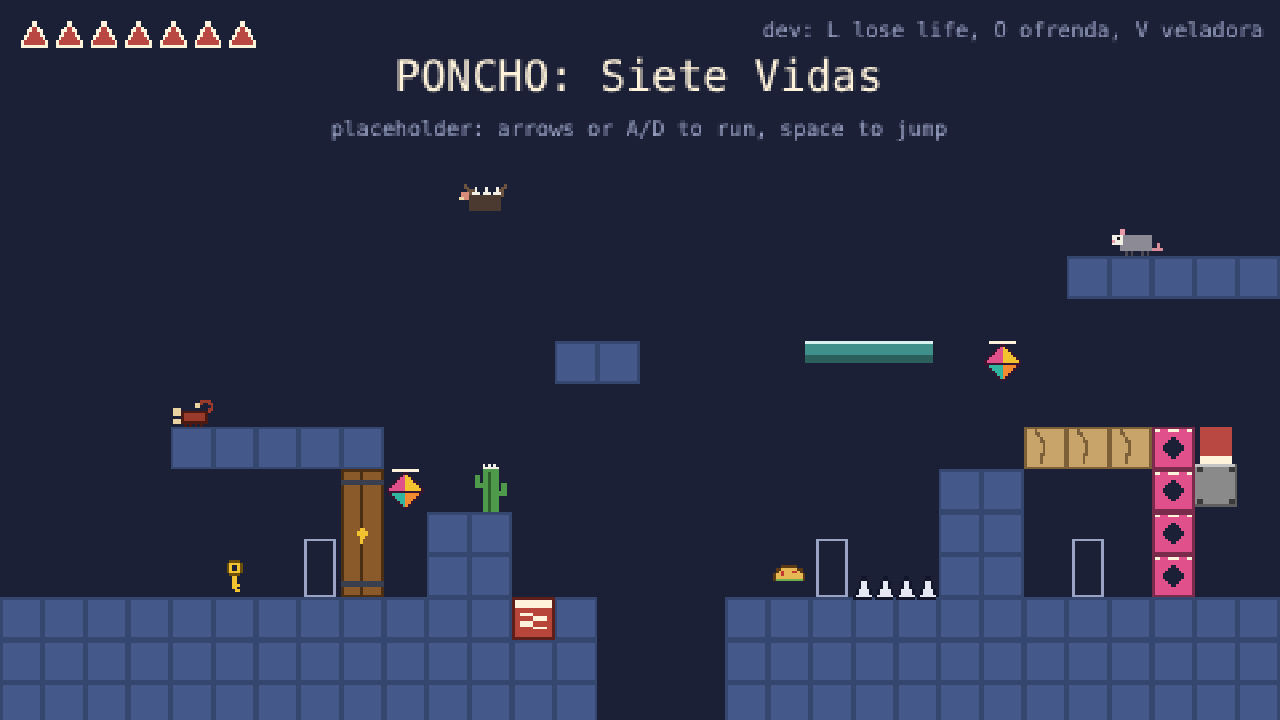
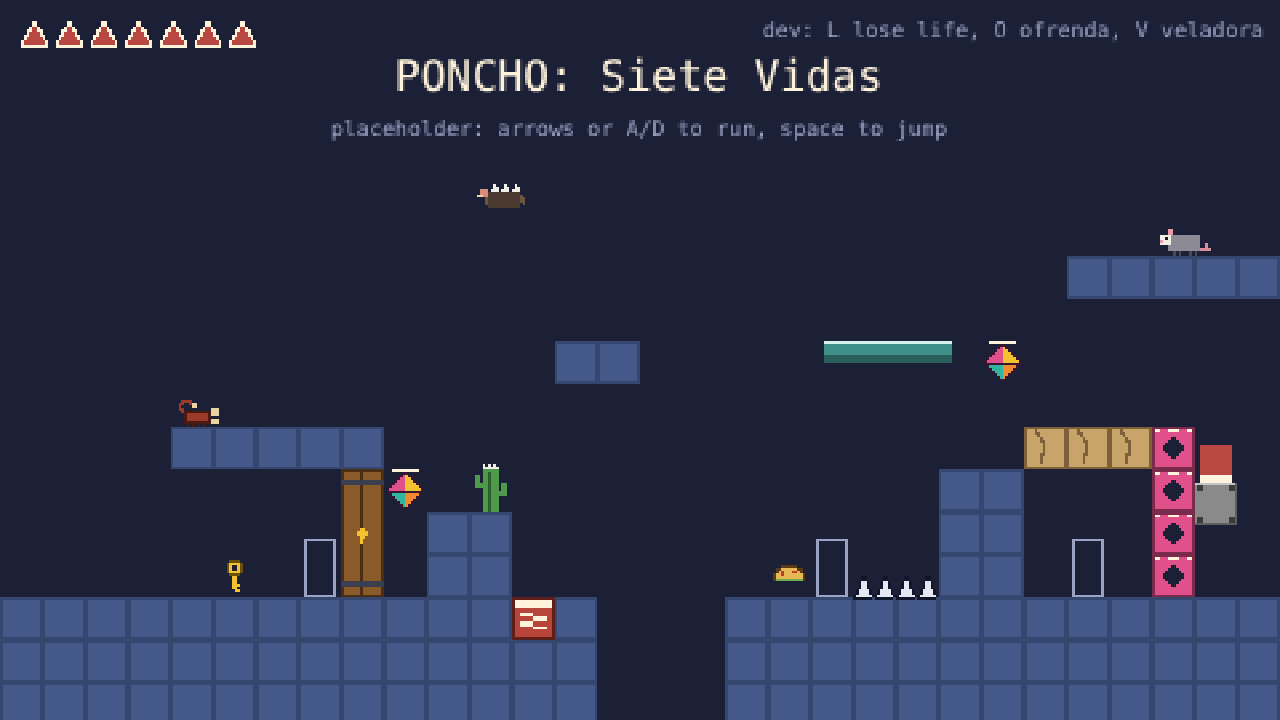
fix(GDD-WLD-05): block carry-down never pushes into a tile; review tests
A downward carry now leaves Poncho on a tile he hangs over, as a platform
does (GDD 0.4.38). New tests pin the upward push, the push axis of a
diagonal block and the stopped run speed at a block's side. The screenshot
scenario steps the block to its exact ends. L-025 recurrence 3.

Claude-Session: https://claude.ai/code/session_01HGGofJfGU4c1YuuvRnn3Kz

diff --git a/src/sim/block.test.ts b/src/sim/block.test.ts
@@ -110,6 +110,8 @@ describe('GDD-WLD-05 moving block is solid on every side', () => {
     const fromLeft = play(wall, runAt(wall, standing(60, 192)), 80, () => ({ move: 1, jumpHeld: false }));
     for (const s of fromLeft) expect(s.player.x).toBeLessThanOrEqual(100 - HALF + 1e-6);
     expect(fromLeft[79]!.player.x).toBeCloseTo(100 - HALF, 6);
+    // Stopped as at a tile wall: his run speed is gone, so when he clears it he speeds up from rest.
+    expect(fromLeft[79]!.player.vx).toBe(0);
     const fromRight = play(wall, runAt(wall, standing(180, 192)), 120, () => ({ move: -1, jumpHeld: false }));
     for (const s of fromRight) expect(s.player.x).toBeGreaterThanOrEqual(132 + HALF - 1e-6);
     expect(fromRight[119]!.player.x).toBeCloseTo(132 + HALF, 6);
@@ -118,8 +120,9 @@ describe('GDD-WLD-05 moving block is solid on every side', () => {
   it('pushes Poncho along when it moves sideways into him, with no life lost', () => {
     const level = levelOf([{ x0: 40, y0: 160, x1: 136, y1: 160, w: 16, h: 32 }]);
     // The step in which its face first passes his left edge (x = 94): it moves him to the face.
-    const first = moveBlocks(standing(100, 192), level.blocks!, 57, level.world);
+    const first = moveBlocks({ ...standing(100, 192), vx: -50 }, level.blocks!, 57, level.world);
     expect(first.crushed).toBe(false);
+    expect(first.player.vx).toBe(0);
     expect(first.player.x - HALF).toBeCloseTo(blockAt(level.blocks![0]!, 58).x + 16, 6);
     const states = play(level, runAt(level, standing(100, 192)), 120);
     const last = states[119]!;
@@ -289,6 +292,39 @@ describe('GDD-LIFE-02 crushing', () => {
     expect(back.phase).toBe('playing');
     expect(back.platformTick).toBe(0);
     expect(blockAt(dropper, back.platformTick)).toMatchObject({ x: dropper.x0, y: dropper.y0 });
+  });
+
+  it('a rising block that meets him from below lifts him onto its top', () => {
+    const level = levelOf([{ x0: 100, y0: 176, x1: 100, y1: 80, w: 32, h: 16 }]);
+    // His feet (y = 175.8) are below where its top will be after one step (y = 175.33): it lifts him and he stands on it.
+    const [after] = play(level, runAt(level, { ...airborne(116, 175.8), vy: -5 }), 1);
+    expect(after!.player.y).toBeCloseTo(176 - 40 / 60, 6);
+    expect(after!.player.x).toBe(116);
+    expect(after!.player.grounded).toBe(true);
+    // He stands on it at once, so a jump pressed the step it lifts him jumps that same step.
+    const [jumped] = play(level, runAt(level, { ...airborne(116, 175.8), vy: -5 }), 1, () => ({ move: 0, jumpHeld: true }));
+    expect(jumped!.player.vy).toBeLessThan(0);
+    expect(jumped!.player.y).toBeLessThan(176 - 40 / 60);
+  });
+
+  it('a block moving on both axes pushes him along the axis with the smaller overlap', () => {
+    // It travels 96 px right and only 8 px down, so it meets Poncho on the floor side on and pushes him right, not down into the floor.
+    const level = levelOf([{ x0: 60, y0: 170, x1: 156, y1: 178, w: 16, h: 16 }]);
+    const states = play(level, runAt(level, standing(100, 192)), 150);
+    expect(states.every((s) => s.lives.lives === 7 && s.phase === 'playing')).toBe(true);
+    expect(states[149]!.player.x).toBeGreaterThan(100);
+  });
+
+  it('carried down past a tile he hangs over, he stays on the tile and the block slides on down', () => {
+    // A tile at column 1, row 10 (x 16 to 32, top y = 160) beside the block's path (x 32 to 48). Poncho stands with 11 of his 12 px over it.
+    const world = worldOf((r) => (r === 10 ? '.#' + '.'.repeat(18) : '.'.repeat(20)));
+    const level = levelOf([{ x0: 32, y0: 128, x1: 32, y1: 176, w: 16, h: 16 }], world);
+    // After 33 steps the block's top is at y = 150, going down.
+    const states = play(level, runAt(level, standing(27, 150), { platformTick: 33 }), 40);
+    for (const s of states) expect(s.player.x).toBe(27);
+    expect(states[39]!.player.y).toBe(160);
+    expect(states[39]!.player.grounded).toBe(true);
+    expect(states[39]!.lives.lives).toBe(7);
   });
 
   it('a push that has room is not a crush: no life lost', () => {

diff --git a/src/sim/block.ts b/src/sim/block.ts
@@ -52,9 +52,11 @@ export function moveBlocks(player: PlayerState, blocks: readonly MovingBlock[], 
     const dy = to.y - from.y;
     if (p.grounded && Math.abs(p.y - from.y) < EPS && overlapsX(p, from)) {
       const x = blocked(solid, p.x + dx, p.y) ? p.x : p.x + dx;
-      // Carried down he moves away from any ceiling, so only carrying him up can crush him.
-      if (dy < 0 && blocked(solid, x, p.y + dy)) return { player, crushed: true };
-      p = { ...p, x, y: p.y + dy };
+      // Carried up into a tile he is crushed. Carried down into one (he hangs over a tile beside the block) he stays on it
+      // and the block slides on down away from him, as a platform never pushes him through a tile.
+      const into = blocked(solid, x, p.y + dy);
+      if (into && dy < 0) return { player, crushed: true };
+      p = { ...p, x, y: into ? p.y : p.y + dy };
       continue;
     }
     if (!overlaps(p, to)) continue;

diff --git a/e2e/shots/block.spec.ts b/e2e/shots/block.spec.ts
@@ -14,10 +14,11 @@ test('GDD-WLD-05 moving block: at the top, on the floor, and carrying Poncho up'
     const g = window.__PONCHO__!;
     g.pause(true);
     g.teleport(472, 224); // column 29, the safe spot beside the block's path
-    g.step(1);
+    // Some steps ran before the pause: step on until the block is back at its top end (y = 112), exactly.
+    for (let i = 0; i < 300 && g.blocks()[0]!.y !== 112; i++) g.step(1);
   });
   await shot(page, info, 'block-top');
-  await page.evaluate(() => window.__PONCHO__!.step(143)); // the block rests on the floor
+  await page.evaluate(() => window.__PONCHO__!.step(144)); // 96 px at 40 px/s: the block rests on the floor (y = 208)
   await shot(page, info, 'block-floor');
   await page.evaluate(() => {
     const g = window.__PONCHO__!;

diff --git a/docs/GDD.md b/docs/GDD.md
@@ -1,6 +1,6 @@
 # PONCHO: Siete Vidas — Game Design Document
 
-Version: 0.4.37
+Version: 0.4.38
 
 This document is the anchor for every feature. Rules:
 
@@ -12,6 +12,7 @@ This document is the anchor for every feature. Rules:
 
 ## Changelog
 
+- **0.4.38** (2026-10-23) GDD-WLD-05: a moving block carrying Poncho down past a tile he hangs over leaves him standing on the tile, as a platform does (found in review).
 - **0.4.37** (2026-10-23) GDD-WLD-05, GDD-LIFE-02, GDD-CMB-03: moving blocks and crushing are built. A moving block is solid on every side and travels like a moving platform at 40 px/s; a push or a carry into a solid tile crushes Poncho, which costs one life like a pit, in any power-up state and even while invulnerable. The sandbox has one in the pocket past the fragile wall (user decisions, 2026-10-23: a moving solid block is what crushes, a crush costs a life like a pit).
 - **0.4.36** (2026-10-23) GDD-MOV-08, GDD-WLD-05, GDD-PRG-01, GDD-MVP-02: the wall cling and kick is built ahead of the MVP, behind the same ability flag as the glide (on in the sandbox, where the level's left and right edges are full-height walls): pressing toward a wall while falling slides at 60 px/s; jump beside a wall in the air kicks away at 130 px/s across and 380 px/s up, then sideways control is locked for 120 ms (user decisions, 2026-10-23: a kick whenever he touches a wall in the air, the cling wins over the glide, a 0.1 s grace after leaving the wall, claw marks as the placeholder look; and a spring launch wins over a wall kick, GDD-WLD-05).
 - **0.4.35** (2026-10-22) GDD-MOV-07, GDD-PRG-01, GDD-MVP-02: the glide is built ahead of the MVP, behind an ability flag a level turns on (the sandbox does, until World 2 can unlock it): holding jump while falling caps the fall at 70 px/s, sideways movement unchanged, as long as jump is held; not within 150 ms of a stomp bounce; a placeholder spread poncho is drawn (user decisions, 2026-10-22: unlock flag on in the sandbox, jump held as he falls, a wide poncho bar). New proposal: a glide starts only once jump has been held longer than the 0.1 s jump buffer (GDD-MOV-03), so a press just before landing stays a buffered jump. The hold counts from a press the game saw, so a jump pressed while paused or held through a respawn does not glide (GDD-UI-02). GDD-UI-02, GDD-CTL-01: Escape and P now pause on every keyboard layout and every quick press counts once (they are read from the browser's own key events by the key's label).
@@ -461,7 +462,7 @@ Core set: spikes (cactus, obsidian), pits, crumbling platforms (0.5 s warning), 
 - **Crumbling tiles (built, details Proposed):** one-tile ledges that are solid like a floor. A tile starts to crumble when Poncho lands on it: his body box over its column and his feet on its top. A jump up from below, or walking into its side, does nothing. The warning lasts 0.5 s (30 steps) from the step he lands, shown by the tile shaking sideways and flashing pale in turn (movement and colour, GDD-UI-03). Then it is gone: Poncho falls, with the usual 0.1 s of coyote time to still jump (GDD-MOV-03). The countdown cannot be stopped: if he walks off, the tile still goes. Each tile has its own timer, so standing on the join of two starts both. A gone tile stays gone until Poncho loses a life, and then every tile is whole again when he respawns (GDD-LIFE-02). The sandbox level has three at tile columns 24 to 26, a jump up from the 3-tile wall. Sand-coloured placeholder art with a crack. `CRUMBLE` in `src/config/tuning.ts`, `src/sim/crumble.ts`.
 - **Springs (built, details Proposed):** a one-tile block, solid like a floor and set flush into it. Standing on its top, by landing on it or by walking onto it, throws Poncho up the same step. The plain launch is 480 px/s, about 77 px up, clearly above a jump (410 px/s, 56 px). A **timed press** gives a higher one: if Poncho pressed jump in the 0.1 s (6 steps) before he lands, counting the landing step itself, the launch is 600 px/s, about 120 px (the user's rule, 2026-10-21: a timed press only, holding jump does not count; the 600 is a proposal). Walking onto the spring, or holding jump from earlier, gives the plain launch. Either launch is fixed once it starts: releasing jump does not cut it short, and a jump pressed in the next steps does not replace it with the weaker 410 px/s jump, nor, beside a wall, with a wall kick (GDD-MOV-08). Touching the spring from the side or below does nothing. Red-and-cream placeholder art with a coil. The sandbox level has one in the floor between the 2-tile wall and the pit, clear of the touch buttons, and a ledge 96 px above the floor that only the timed launch reaches. `SPRING` in `src/config/tuning.ts`, `src/sim/spring.ts`.
 - **Moving platforms (built, details Proposed):** a slab 8 px thick and any whole number of tiles wide that travels in a straight line between two ends and back, at 40 px/s, turning round at each end without stopping. Where it is depends only on how many steps have passed, so it is identical on every run. It is a **one-way floor**: Poncho lands on its top when he comes down onto it, and while he stands on it he is carried with it (sideways and up and down). He passes through it from below, so he can jump up through it and land on top, and its sides and underside never block him, so it cannot crush him (only a moving block can, below). If it would carry him into a wall or a ceiling he stays against that tile and the platform slides on under his feet: it never pushes him through a tile. Jumping from it works at once; walking off an end drops him. Platforms stand still during the 0.8 s respawn wait and start from their first end again when Poncho respawns (GDD-LIFE-02). The sandbox level has one, 3 tiles wide at the height of the spring ledge, starting against the ledge's right edge and travelling 96 px right, towards the crumbling tiles; from its right end a jump reaches the Tlacuache's ledge in the top right corner, 32 px higher (GDD-ENM-02). Teal placeholder art. `PLATFORM` in `src/config/tuning.ts`, `src/sim/platform.ts`.
-- **Moving blocks (built, details Proposed; user, 2026-10-23: a solid block that moves like the platforms and crushes):** a solid block any whole number of tiles wide and tall that travels in a straight line between two ends and back at 40 px/s, turning round at each end without stopping, like a moving platform, and identical on every run. Unlike a platform it is solid on every side: Poncho lands on its top and is carried with it while he stands there (sideways and up and down), bumps his head on its underside, and is stopped by its sides. When it moves into him it pushes him along in the direction it moves. If that push, or carrying him up, would force his body box into a solid tile, he is **crushed** (GDD-LIFE-02). If it would carry him sideways into a wall he stays against the wall and the block slides on under his feet, as a platform does. Its sides are not walls to cling to (GDD-MOV-08). Only Poncho collides with it for now: enemies, walking tacos and fireballs pass through it. Blocks stand still during the 0.8 s respawn wait and start from their first end again when Poncho respawns. The sandbox has one, one tile square, in column 28 of the pocket past the fragile wall: it travels from just under the Tlacuache's ledge (top y = 112) down to the floor (top y = 208) and back, starting at the top. So Poncho is crushed if he is under it when it reaches the floor, or if he rides it up into the ledge; column 29 beside it, against the level's right edge, is a safe spot. Grey stone placeholder art with dark corner studs. `BLOCK` in `src/config/tuning.ts`, `src/sim/block.ts`.
+- **Moving blocks (built, details Proposed; user, 2026-10-23: a solid block that moves like the platforms and crushes):** a solid block any whole number of tiles wide and tall that travels in a straight line between two ends and back at 40 px/s, turning round at each end without stopping, like a moving platform, and identical on every run. Unlike a platform it is solid on every side: Poncho lands on its top and is carried with it while he stands there (sideways and up and down), bumps his head on its underside, and is stopped by its sides. When it moves into him it pushes him along in the direction it moves. If that push, or carrying him up, would force his body box into a solid tile, he is **crushed** (GDD-LIFE-02). If it would carry him sideways into a wall he stays against the wall and the block slides on under his feet, as a platform does; carried down while part of him hangs over a tile beside it, he stays on that tile and the block goes on down without him (it never pushes him through a tile). Its sides are not walls to cling to (GDD-MOV-08). Only Poncho collides with it for now: enemies, walking tacos and fireballs pass through it. Blocks stand still during the 0.8 s respawn wait and start from their first end again when Poncho respawns. The sandbox has one, one tile square, in column 28 of the pocket past the fragile wall: it travels from just under the Tlacuache's ledge (top y = 112) down to the floor (top y = 208) and back, starting at the top. So Poncho is crushed if he is under it when it reaches the floor, or if he rides it up into the ledge; column 29 beside it, against the level's right edge, is a safe spot. Grey stone placeholder art with dark corner studs. `BLOCK` in `src/config/tuning.ts`, `src/sim/block.ts`.
 - **Doors and keys (built, details Proposed):** a door is one tile wide and any whole number of tiles tall, solid like a wall, and is opened as one piece by a single key. A key is a 12 x 12 px pickup in the middle of its tile, picked up by touch with the body box (GDD-PWR-06) and carried; all keys are alike. A shut door that Poncho touches at its side while he carries a key opens for good that step and uses up one key: he touches it when his body box, widened by 1 px on each side, overlaps its column and overlaps it in height, so walking into it counts and standing on top of it or bumping it from below does not. One key opens one door, even if he touches two at once. A key picked up the same step a door is touched opens that door. An open door is gone and does not close again. Losing a life drops every carried key, puts every key back on the floor and shuts every door, like taco pickups and piñatas (GDD-PWR-01, GDD-PWR-05). The HUD shows one small key per key carried, right of the power-up icon. The sandbox has one door three tiles tall at column 8, closed off above by the platform, and one key at column 5 on the way to it. Walking tacos treat a shut door as a wall (GDD-PWR-02). Colours or pairs of keys, doors that need a switch, and sounds come later. `KEY` in `src/config/tuning.ts`, `src/sim/door.ts`.
 - **Fragile walls (built, details Proposed):** papel picado tiles, solid like a wall until a claw swipe (GDD-CMB-02) overlaps them, which breaks every tile its box overlaps, for good. A wall taller than the 14 px claw box is broken a tile at a time from the height Poncho swings at, so one swipe from the floor opens a gap one tile high, which he can walk through. Losing a life puts every broken tile back (GDD-LIFE-02). Walking tacos treat an unbroken tile as a wall. Drawn as a pink paper tile with a cut-out diamond and a pale scalloped top edge (placeholder art). The sandbox has a wall four tiles tall, so a jump cannot clear it, at column 27 in the pocket at the right end. Not built yet: other ways to break them (fireballs, GDD-PWR-03), a break animation and sound. `src/sim/fragile.ts`.
 - **Ofrenda:** one tile wide and two tiles tall (16 x 32 px), standing on the floor. It is activated when Poncho's body box (GDD-MOV-06) overlaps it; boxes that only share an edge do not touch. It does not need a button press and works in the air, so a jump through it counts.

diff --git a/docs/LESSONS.md b/docs/LESSONS.md
@@ -251,7 +251,8 @@ Prefer an automated check over a prose rule.
 - **What went wrong:** In the glide (GDD-MOV-07) a "not on the ground" condition survived its mutant, because landing ended the glide anyway. In the wall cling (GDD-MOV-08) the same happened twice: "not touching on the ground" and the kick's "not grounded" check, both already covered by the normal jump taking the press first and by landing ending the slide.
 - **Root cause:** Each guard was written for a case another rule already handles, so it had no behaviour of its own for a test to pin down.
 - **Rule:** When a mutant of a guard survives, first ask whether another rule already covers that case. If it does, delete the guard and say in a comment which rule covers it, instead of adding a test that cannot fail for the guard alone.
-- **Recurrence:** 2
+- **Recurrence 3 (2026-10-23, GDD-WLD-05 moving blocks):** a `clinging: false` on the block's side stop survived, since movement only clings to tiles; deleted with a comment naming the covering rule. The skill step worked as written.
+- **Recurrence:** 3
 - **Promoted:** step 7 of the `harness-feature` skill (step 4 of `.claude/agents/implementer.md` too).
 
 ## L-026 A test measured over a window wide enough to include a second, unrelated event
